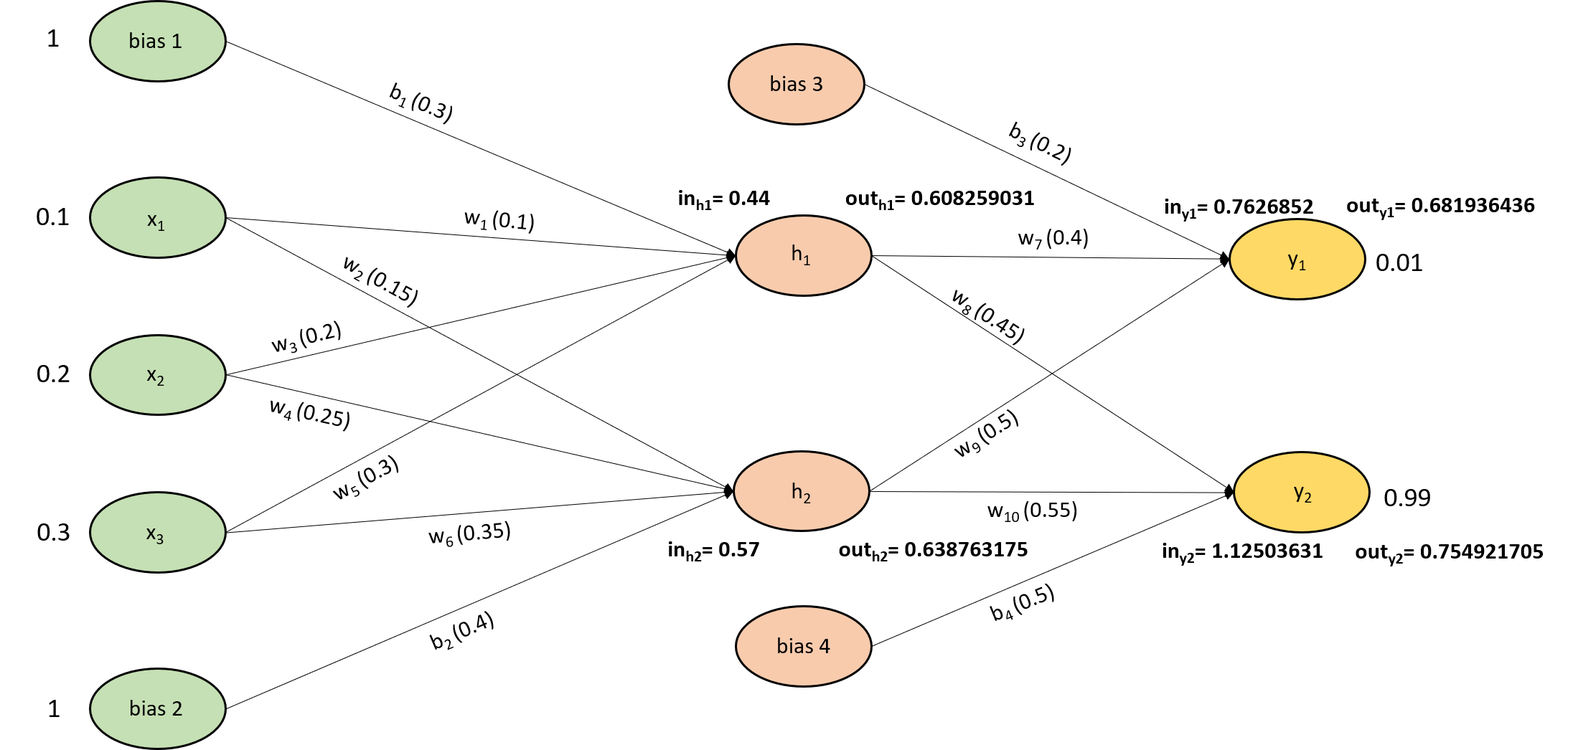
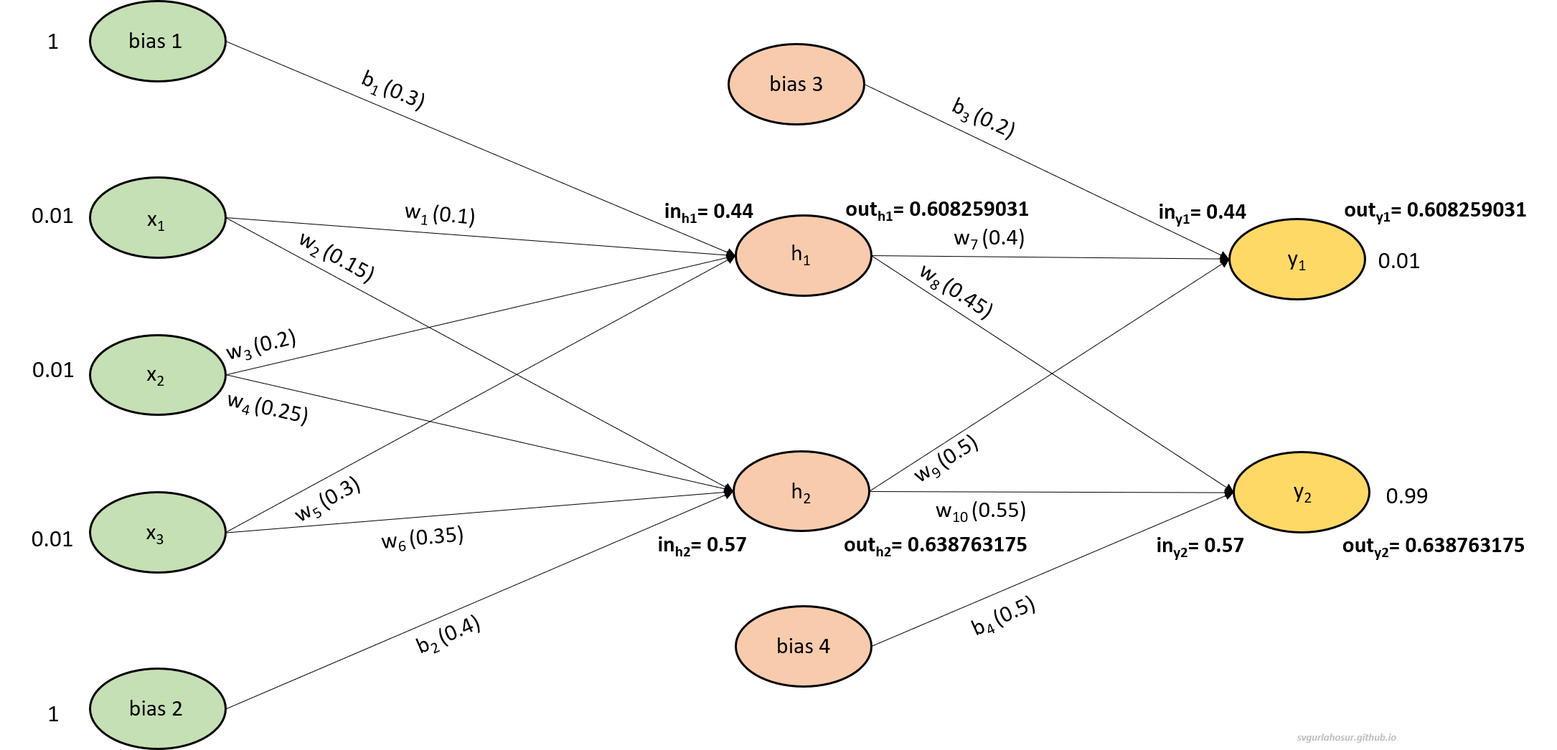
updates

diff --git a/_posts/2022-03-18-neural_network-forward_back_propogation.md b/_posts/2022-03-18-neural_network-forward_back_propogation.md
@@ -17,13 +17,15 @@ This post discusses Neural Networks, particularly Multilayer Perceptron (MLP), a
 <!--more-->
 
 # Introduction
-The Multi-layer Perceptron is a powerful and popular neural network architecture that has significantly impacted machine learning, pattern recognition, and deep learning. MLPs are known for learning intricate patterns and making precise predictions. This post focuses on the detailed analysis of forward and backpropagation in MLPs, examining their fundamental concepts, mechanisms, advantages, difficulties, and influence on artificial intelligence. Every MLP will have one input layer, one or more hidden layers, and one output layer.
+The Multi-layer Perceptron is a powerful and popular neural network architecture that has significantly impacted machine learning, pattern recognition, and deep learning. MLPs are known for learning intricate patterns and making precise predictions. This post focuses on the detailed analysis of forward and backpropagation in MLPs, examining their fundamental concepts, mechanisms, advantages, difficulties, and influence on artificial intelligence.
 
-The MLP shown in <a href="#image-name">Figure 1</a> has one input layer, one hidden layer, and one output layer. The input layer has three input neurons represented by the three nodes ($x_1, x_2, x_3$) in the input layer and two bias neurons represented by the two bias nodes ($b_1, b_2$). The hidden layer consists of two neurons, also known as hidden units($h_1, h_2$) and two bias units ($b_3, b_4$). The number of neurons in the output layer is determined by the problem being solved. For example, in a binary classification task, two output neurons might represent the two possible classes.
+The structure/design of every MLP will have one input layer, one or more hidden layers, and one output layer. The MLP shown in <a href="#image-name">Figure 1</a> has one input layer, one hidden layer, and one output layer. The input layer has three input neurons represented by the three nodes ($x_1, x_2, x_3$) in the input layer and two bias neurons represented by the two bias nodes ($b_1, b_2$). The hidden layer consists of two neurons, also known as hidden units ($h_1, h_2$) and two bias units ($b_3, b_4$). The output layer has a total of two neurons ($y_1, y_2$). The number of neurons in the input layer is determined by the number of features/inputs. If the input is an image, then the total number of pixels. The number of layers and number of neurons in each hidden layer is determined by the problem being solved and the AI designer. The number of neurons in the output layer depends on the problem being solved. For example, two output neurons might represent the two possible classes in a binary classification task.
 
 The training of MLP mainly involves two steps: forward propagation and backpropagation. Forward propagation refers to calculating the output of an MLP for a given set of input data. Backpropagation is used to update the weights and biases of the neural network to minimize the error or loss function based on the gradients so that the predicted output will be same or as close as possible to the actual output. 
 
-<img src="/images/posts/neural-network/1.png" alt="Alt Text" id="image-name" style="width:970px;">
+<div style="text-align: center;">
+    <img src="/images/posts/neural-network/1.png" alt="drawing" style="width:970px;"/>
+</div>
 
 $$
 Figure\text{ 1: Multi Layer Perceptron}
@@ -41,14 +43,14 @@ $$
 
 The Forward propagation, also known as feedforward, is the initial phase of training an MLP. It involves passing input data through the network’s layers, where each neuron calculates a weighted sum of its inputs and applies an activation function to produce an output. The process continues layer by layer until the final layer generates the network’s prediction. This process can divided into the following steps:
 
-1. Initialization of inputs and network parameters: The input layer is initialized with the input data, and all the neurons and biases of MLP will be initialized with some initial values.
-2. Weighted Sum Calculation: Each neuron in the current layer computes the weighted sum of its inputs, including the inputs, corresponding weights, and biases.
-3. Activation Function: The weighted sum is then passed through an activation function, introducing non-linearity into the network. The specific type of activation function used can vary, but common choices include the sigmoid, tanh, or relu functions. In this discussion, we have considered the sigmoid as the activation function.
-4. Intermediate Output calculation: The outputs from the current layer are sent as inputs to the next layer.
-5. Iteration: Steps 2-4 are repeated for all the hidden layers until the output layer is reached.
-6. Network output calculation: The final layer’s output values act as the network’s prediction and are used to improve the network performance further by calculating the error by comparing them against the actual outputs for the network.
+1. **Initialization of inputs and network parameters**: The input layer is initialized with the input data, and all the neurons and biases of MLP will be initialized with some initial values.
+2. **Weighted Sum Calculation**: Each neuron in the current layer computes the weighted sum of its inputs, including the inputs, corresponding weights, and biases.
+3. **Activation Function**: The weighted sum is then passed through an activation function, introducing non-linearity into the network. The specific type of activation function used can vary, but common choices include the sigmoid, tanh, or relu functions. In this discussion, we have considered the sigmoid as the activation function.
+4. **Intermediate Output calculation**: The outputs from the current layer are sent as inputs to the next layer.
+5. **Iteration**: Steps 2-4 are repeated for all the hidden layers until the output layer is reached.
+6. **Network output calculation**: The final layer’s output values act as the network’s prediction and are used to improve the network performance further by calculating the error by comparing them against the actual outputs for the network.
 
-Overall, the MLP with this configuration performs forward propagation by passing the input data through the hidden layer to the output layer, with each neuron applying weights and activation functions and producing outputs. In the considered example, with the current inputs ($x_1, x_2, x_3$), the network has to predict the outputs using all weights ($w_1, w_2, w_3, w_4, w_5, w_6, w_7, w_8, w_9 ,w_{10}$) and biases ($b_1, b_2, b_3, b_4$) so that the predicted output from node $y_1$ to be 0.01 and node $y_2$ to be 0.99.
+Overall, the MLP in <a href="#image-name">Figure 1</a> with the mentioned initial values for weights and bias performs forward propagation by passing the input data through the hidden layer to the output layer, with each neuron applying weights and activation functions and producing outputs. In the considered example, with the current inputs ($x_1, x_2, x_3$), the network has to predict the outputs using all weights ($w_1, w_2, w_3, w_4, w_5, w_6, w_7, w_8, w_9 ,w_{10}$) and biases ($b_1, b_2, b_3, b_4$) so that the predicted output from node $y_1$ to be 0.01 and node $y_2$ to be 0.99.
 
 
 ### **i. Input and output at hidden layer:**
@@ -93,7 +95,11 @@ $$
 out_{h2}=\frac{1}{1+e^{-in_{h2}}}=\frac{1}{1+e^{-0.57}}=0.638763175
 $$
 
-<img src="/images/posts/neural-network/2.png" alt="Alt Text" style="width:970px;">
+
+<div style="text-align: center;">
+    <img src="/images/posts/neural-network/2.png" alt="drawing" style="width:970px;"/>
+</div>
+
 
 $$
 Figure\text{ 2: MLP with input and output at the hidden layer}
@@ -142,7 +148,9 @@ out_{y2}=\frac{1}{1+e^{-in_{h2}}}=\frac{1}{1+e^{-1.12503631}}=0.754921705
 $$
 
 
-<img src="/images/posts/neural-network/3.png" alt="Alt Text" style="width:970px;">
+<div style="text-align: center;">
+    <img src="/images/posts/neural-network/3.png" alt="drawing" style="width:970px;"/>
+</div>
 
 $$
 Figure\text{ 3: MLP with input and output for both the layers}
@@ -178,15 +186,15 @@ $$
 
 The Backpropagation step in MLPs allows the network to learn from errors by adjusting weights and biases. This step propagates the error backward by updating weights and biases at each layer to minimize the difference between predicted and actual outputs. This process allows the network to make predictions or classify input data based on the learned patterns and connections between neurons. The chain rule of calculus is used in backpropagation efficiently to compute the gradient of the loss function at each layer, enabling accurate error calculation by all the weights and biases. This process can divided into the following steps
 
-1. Network error calculation: The output predicted from the network is compared with the actual output to calculate the total network error.
-2. Computation of gradients and weights and biases updation: The gradient of the error with respect to the weights and biases of the output layer is calculated, representing the direction and magnitude of the weight and bias modification needed to reduce the error. An optimization algorithm, such as gradient descent, will be used to update the weights and biases to reduce the error.
-3. Updation of parameters: The output layer weights and biases are updated using an optimization algorithm, such as gradient descent, which utilizes the calculated gradients to minimize the error iteratively.
-4. Propagation of error: The error information will be propagated backward to the previous layer by computing the error gradient with respect to the weights and biases of the previous layer. The weights and biases of the previous layer are modified using the calculated gradients with the gradient descent optimization algorithm.
-5. Iteration: Steps 4 is repeated for all hidden layers until the input layer is reached.
+1. **Network error calculation**: The output predicted from the network is compared with the actual output to calculate the total network error.
+2. **Computation of gradients and weights and biases updation**: The gradient of the error with respect to the weights and biases of the output layer is calculated, representing the direction and magnitude of the weight and bias modification needed to reduce the error. An optimization algorithm, such as gradient descent, will be used to update the weights and biases to reduce the error.
+3. **Updation of parameters**: The output layer weights and biases are updated using an optimization algorithm, such as gradient descent, which utilizes the calculated gradients to minimize the error iteratively.
+4. **Propagation of error**: The error information will be propagated backward to the previous layer by computing the error gradient with respect to the weights and biases of the previous layer. The weights and biases of the previous layer are modified using the calculated gradients with the gradient descent optimization algorithm.
+5. **Iteration**: Steps 4 is repeated for all hidden layers until the input layer is reached.
 
 To summarize, the forward propagation is used to calculate the error, and the backpropagation is used to update network parameters so that the error during the subsequent forward propagation will be less than the current error. During the training of MLP, both forward and back propagation will be done in a continuous loop for a specified number of times (epoch) to optimize the model parameters so that the error at the end will be significantly less compared to the first epoch error.
 
-The total error from the MLP with current weights and bias is 0.253380189, so let us calculate the optimized value for weights and bias using backpropagation with a learning rate of 0.5, so that error from MLP will be lesser than the current total error. In order to do that, we shall start with the weights($w_7, w_8, w_9, w_{10}$) and biases($b_3, b_4$) associated between the hidden layer and the output layer.
+The total error from the MLP with current weights and bias is 0.253380189, so let us calculate the optimized value for weights and bias using backpropagation with a learning rate of 0.5, so that error from MLP will be lesser than the current total error. In order to do that, we shall start with the weights ($w_7, w_8, w_9, w_{10}$) and biases ($b_3, b_4$) associated between the hidden layer and the output layer.
 
 ### **i. Weights between output and hidden layer:**
 
@@ -478,7 +486,9 @@ $$
 
 We have calculated all the weights ($w_7, w_8, w_9, w_{10}$) associated between the hidden layer and output layer.
 
-<img src="/images/posts/neural-network/4.png" alt="Alt Text" style="width:970px;">
+<div style="text-align: center;">
+    <img src="/images/posts/neural-network/4.png" alt="drawing" style="width:970px;"/>
+</div>
 
 $$
 Figure\text{ 4: MLP with updated weights between output and hidden layer}
@@ -582,7 +592,9 @@ $$
 
 All the weights and bias values associated between the hidden layer and the output layer are calculated. 
 
-<img src="/images/posts/neural-network/5.png" alt="Alt Text" style="width:970px;">
+<div style="text-align: center;">
+    <img src="/images/posts/neural-network/5.png" alt="drawing" style="width:970px;"/>
+</div>
 
 $$
 Figure\text{ 5: MLP with updated weights and biases between output and hidden layer}
@@ -665,8 +677,13 @@ let us substitute values from the equations \eqref{eq:31} and \eqref{eq:32} in t
 
 now let us use the values from the equations \eqref{eq:29} and \eqref{eq:33} and substitute into equation \eqref{eq:25} which is the first component of the equation \eqref{eq:24} 
 
+$$
+\frac{\partial E_{\text {total}}}{\partial out_{h1}} = \frac{\partial error_{\text {y1}}}{\partial out_{h1}} +\frac{\partial error_{\text {y2}}}{\partial out_{h1}} = 0.058296972 + (-0.019571847)
+$$
+
+
 \begin{equation}
-  \frac{\partial E_{\text {total}}}{\partial out_{h1}} = \frac{\partial error_{\text {y1}}}{\partial out_{h1}} +\frac{\partial error_{\text {y2}}}{\partial out_{h1}} = 0.058296972 + (-0.019571847) = 0.038725125
+  \frac{\partial E_{\text {total}}}{\partial out_{h1}} = 0.038725125
   \label{eq:34}
 \end{equation}
 
@@ -697,7 +714,7 @@ $$in_{h1}=w_1 * x_1+w_3 * x_2+w_5 * x_3+b_1 * 1$$
   \label{eq:36}
 \end{equation}
 
-let us put everything together now from equations \eqref{eq:34}  \eqref{eq:35} and \eqref{eq:36} into the equation \eqref{eq:24}
+let us put everything together now from equations \eqref{eq:34}, \eqref{eq:35}, and \eqref{eq:36} into the equation \eqref{eq:24}
 
 $$
 \frac{\partial E_{\text {total}}}{\partial w_1}=\frac{\partial E_{\text {total}}}{\partial out_{h1}} * \frac{\partial out_{h1}}{\partial in_{h1}} * \frac{\partial in_{h1}}{\partial w_1} = 0.038725125 * 0.238279982 * 0.1 = 0.009227422
@@ -877,8 +894,13 @@ $$
 
 let us use the values from equations \eqref{eq:48} and \eqref{eq:51} and substitute them into equation  \eqref{eq:45} which is the first component of the equation \eqref{eq:44}
 
+$$
+\frac{\partial E_{\text {total}}}{\partial out_{h2}} = \frac{\partial error_{\text {y1}}}{\partial out_{h2}} +\frac{\partial error_{\text {y2}}}{\partial out_{h2}} = 0.072871216 + (-0.023921146)
+$$
+
+
 \begin{equation}
-  \frac{\partial E_{\text {total}}}{\partial out_{h2}} = \frac{\partial error_{\text {y1}}}{\partial out_{h2}} +\frac{\partial error_{\text {y2}}}{\partial out_{h2}} = 0.072871216 + (-0.023921146) = 0.048950069
+  \frac{\partial E_{\text {total}}}{\partial out_{h2}} = 0.048950069
   \label{eq:52}
 \end{equation}
 
@@ -1013,10 +1035,12 @@ $$
 
 We have calculated all the weights ($w_1, w_2, w_3, w_4, w_5, w_6$) associated between the hidden layer and output layer.
 
-<img src="/images/posts/neural-network/6.png" alt="Alt Text" style="width:970px;">
+<div style="text-align: center;">
+    <img src="/images/posts/neural-network/6.png" alt="drawing" style="width:970px;"/>
+</div>
 
 $$
-Figure\text{ 6: MLP with updated weights and biases between output and hidden layer, weights between input and hidden layer}
+Figure\text{ 6: MLP with updated weights between input and hidden layer}
 $$
 
 ### **iv. Biases between hidden and input layer:**
@@ -1105,7 +1129,9 @@ $$
 
 We have calculated all the biases ($b_1, b_2$) associated between the hidden layer and input layer.
 
-<img src="/images/posts/neural-network/7.png" alt="Alt Text" style="width:970px;">
+<div style="text-align: center;">
+    <img src="/images/posts/neural-network/7.png" alt="drawing" style="width:970px;"/>
+</div>
 
 $$
 Figure\text{ 7: MLP with updated weights and biases between both the layers}
@@ -1198,10 +1224,12 @@ $$
 out_{y2}=\frac{1}{1+e^{-in_{h2}}}=\frac{1}{1+e^{-1.162282206}}=0.761747156
 $$
 
-<img src="/images/posts/neural-network/8.png" alt="Alt Text" style="width:970px;">
+<div style="text-align: center;">
+    <img src="/images/posts/neural-network/8.png" alt="drawing" style="width:970px;"/>
+</div>
 
 $$
-Figure\text{ 8: MLP with input and output for both the layers with updated weights and biases}
+Figure\text{ 8: MLP with input, output for both the layers with updated weights and biases}
 $$
 
 ### **i. Calculation of total error:**
@@ -1241,7 +1269,11 @@ The total error from the MLP before the updation of weights and bias was $0.2533
     Epoch: 500 Error: 0.000708482
 
 
-<img src="/images/posts/neural-network/error_w_b.png" alt="drawing" style="width:500px;"/>
+
+<div style="text-align: center;">
+    <img src="/images/posts/neural-network/error_w_b.png" alt="drawing" style="width:500px;"/>
+</div>
+
 
 ## 4. Forward propagation with only updated weights:
 
@@ -1328,7 +1360,9 @@ $$
 out_{y2}=\frac{1}{1+e^{-in_{h2}}}=\frac{1}{1+e^{-1.141780842}}=0.758006454
 $$
 
-<img src="/images/posts/neural-network/9.png" alt="Alt Text" style="width:970px;">
+<div style="text-align: center;">
+    <img src="/images/posts/neural-network/9.png" alt="drawing" style="width:970px;"/>
+</div>
 
 $$
 Figure\text{ 9: MLP with input and output for both the layers with updated weights}
@@ -1370,7 +1404,11 @@ The total error from the MLP before the updation of weights was $0.253380189$, a
     Epoch: 450 Error: 0.002269746
     Epoch: 500 Error: 0.001972481
 
-<img src="/images/posts/neural-network/error_w.png" alt="drawing" style="width:500px;"/>
+
+
+<div style="text-align: center;">
+    <img src="/images/posts/neural-network/error_w.png" alt="drawing" style="width:500px;"/>
+</div>
 
 
 ## 5. Analysis on the error obtained during training:
@@ -1379,7 +1417,10 @@ Now, let us analyze the error obtained for both methods and visualize how error 
 <script src="https://gist.github.com/svgurlahosur/8a57782dbaf4c94d1657c3281ef0d138.js"></script>
 
 
-<img src="/images/posts/neural-network/error_analysis.png" alt="drawing" style="width:700px;"/>
+<div style="text-align: center;">
+    <img src="/images/posts/neural-network/error_analysis.png" alt="drawing" style="width:700px;"/>
+</div>
+
 
     The total error from all epochs with weights and bias updation method is less.
 

diff --git a/_posts/2022-02-18-linear-regression.md b/_posts/2022-02-18-linear-regression.md
@@ -22,7 +22,7 @@ Linear Regression is a Supervised Learning algorithm used to solve problems wher
 - Years of experience --> Salary of an employee
 - Area of the house --> Price of the house
 
-In all these examples, output/predicted values are continuous; hence, Linear Regression is used to build the machine learning model(hypothesis) and predict the output for a new set of inputs. To understand the working of the Linear Regression algorithm from a practical perspective, let us consider the problem of predicting an employee's salary based on various employee qualities. Now, to solve this problem to predict the employee salary with Linear Regression, we should apply the following four steps:
+In all these examples, output/predicted values are continuous; hence, Linear Regression is used to build the machine learning model (hypothesis) and predict the output for a new set of inputs. To understand the working of the Linear Regression algorithm from a practical perspective, let us consider the problem of predicting an employee's salary based on various employee qualities. Now, to solve this problem to predict the employee salary with Linear Regression, we should apply the following four steps:
 
 1. Data collection
 2. Model/hypothesis representation
@@ -34,16 +34,22 @@ In all these examples, output/predicted values are continuous; hence, Linear Reg
 
 Let us consider/collect sample data records of salary provided by the company to employees based upon one feature of employees, like years of experience. We call this Univariate Linear Regression since we use a single feature to predict the employee's salary.
 
-<img src="/images/posts/linear-regression/picture1.png" alt="drawing" style="width:310px;"/>
+<div style="text-align: center;">
+    <img src="/images/posts/linear-regression/picture1.png" alt="drawing" style="width:310px;"/>
+</div>
 
-Instead of a single feature, if we use multiple features(qualities) of an employee to predict the salary, we call it Multi-variate Linear Regression.
 
-<img src="/images/posts/linear-regression/picture2.png" alt="drawing" style="width:580px;"/>
+Instead of a single feature, if we use multiple features (qualities) of an employee to predict the salary, we call it Multi-variate Linear Regression.
+
+<div style="text-align: center;">
+    <img src="/images/posts/linear-regression/picture2.png" alt="drawing" style="width:580px;"/>
+</div>
+
 
 ***Note:*** 
-1. Number of samples(records) range from 1, 2, 3, 4, . . . ., m
-2. Number of features range from $x_0, x_1, x_2, x_3, . . . . x_n$ where $x_0$ is considered as 1
-3. Notation used to identify the dataset(superscript indicates the sample number and subscript indicates the feature number): $x^2$ - (3, 1, 5), $x^2_1$ - 3, $x^2_2$ - 1 and $x^4$ - (4, 1, 6)
+1. Number of samples(records) range from 1, 2, 3, 4, . . . ., m.
+2. Number of features range from $x_0, x_1, x_2, x_3, . . . . x_n$ where $x_0$ is considered as 1.
+3. Notation used to identify the dataset(superscript indicates the sample number and subscript indicates the feature number): $x^2$ - (3, 1, 5), $x^2_1$ - 3, $x^2_2$ - 1 and $x^4$ - (4, 1, 6).
 
 <script src="https://gist.github.com/svgurlahosur/c01e14f00a67ae85d668f64f0a10f8d7.js"></script>
 
@@ -52,7 +58,7 @@ Visit the [training](https://github.com/svgurlahosur/Machine-Learning/blob/main/
 
 ## 2. Model/hypothesis represenation
 
-The model/hypothesis ($h_\theta(x)$) approximates the target function by finding the relationship(pattern) between input features and output using linear operators (since data is linear). Hence we can define the hypothesis for Linear Regression algorithm as,
+The model/hypothesis ($h_\theta(x)$) approximates the target function by finding the relationship (pattern) between input features and output using linear operators (since data is linear). Hence we can define the hypothesis for Linear Regression algorithm as,
 
 
 $$
@@ -80,11 +86,11 @@ An optimization algorithm is used to iteratively update the model parameters unt
 
 ## 4. Optimization of model parameters
 
-The cost function calculates the error for any given values of model parameters($$\theta_0,\theta_1,\theta_2\ .\ .\theta_n$$), and the job of the optimization algorithm is to iteratively adjust the parameters based on the gradient (slope) of the cost function with respect to each parameter such that the error is minimized.
+The cost function calculates the error for any given values of model parameters ($$\theta_0,\theta_1,\theta_2\ .\ .\theta_n$$), and the job of the optimization algorithm is to iteratively adjust the parameters based on the gradient (slope) of the cost function with respect to each parameter such that the error is minimized.
 
 Hence, we initialize the model parameters with some initial values (hyperparameter initialization) that serve as the optimization process's starting point and update them to minimize the error. With the initialized values for parameters, we will get an error value. Still, the challenge here is to decide with obtained error whether we should increase the value of parameters or decrease them so that the error will be reduced with the modified parameters. If we decide on the choice (increase/decrease), the next challenge is the magnitude with which we should update them. Hence we can roughly imagine this problem where the model parameters are like vector elements with scope for optimization in both magnitude and direction.
 
-So, to minimize the error, with initial values for parameters, we calculate the gradient of the cost function with respect to each coefficient. The gradient descent is a first-order iterative optimization algorithm for finding a local minimum of a differentiable function. It calculates the partial derivative of the cost function($$J\left(\theta\right)$$) with respect to each model parameter which represents the slope of the cost function in the direction of each parameter, indicating how the cost function changes with respect to changes in the parameters. 
+So, to minimize the error, with initial values for parameters, we calculate the gradient of the cost function with respect to each coefficient. The gradient descent is a first-order iterative optimization algorithm for finding a local minimum of a differentiable function. It calculates the partial derivative of the cost function ($$J\left(\theta\right)$$) with respect to each model parameter which represents the slope of the cost function in the direction of each parameter, indicating how the cost function changes with respect to changes in the parameters. 
 After calculating gradients for each parameter, we update the parameter in the opposite direction by a small fraction (learning rate) since the gradient gives the direction of the steepest ascent. The learning rate is a hyperparameter that controls the step size taken in each iteration of the optimization process. It determines how large or small the coefficient updates should be to ensure the algorithm converges effectively without overshooting the minimum.
 
 Hence, the generic parameter update formula is as follows,
@@ -167,17 +173,29 @@ The Hyperparameter Epochs define the number of times we perform the optimization
 ### **i. Stochastic gradient descent:**
 A single sample is used at every iteration to predict model output, calculate the error, and optimize the model parameters. This method is straightforward but computationally expensive to train models on large datasets with all samples. It can quickly give an insight into the model performance and converge faster, making it ideal for large datasets. The frequent updates can help escape local minima, but the noisy updates sometimes may lead to erratic convergence. 
 
-<img src="/images/posts/linear-regression/picture4.png" alt="drawing" style="width:770px;"/>
+
+<div style="text-align: center;">
+    <img src="/images/posts/linear-regression/picture4.png" alt="drawing" style="width:770px;"/>
+</div>
+
 
 ### **ii. Batch gradient descent:**
 All the samples are used at every iteration to predict model output and calculate the error, resulting in a more accurate and stable estimation of gradients to optimize the model parameters. This method is ideal for convex or well-behaved loss surfaces, guaranteeing convergence to the global minimum. At the same time, this method is computationally expensive since the entire training dataset is loaded onto memory, particularly for larger datasets. This method will also struggle with non-convex loss surfaces and sometimes may lead to early convergence (local minima) with a less optimized set of parameters. 
 
-<img src="/images/posts/linear-regression/picture5.png" alt="drawing" style="width:770px;"/>
+
+<div style="text-align: center;">
+    <img src="/images/posts/linear-regression/picture5.png" alt="drawing" style="width:770px;"/>
+</div>
 
 ### **iii. Mini batch gradient:**
 A batch of samples is used at every iteration to predict model output, calculate the error, and optimize the model parameters. This method combines the advantages of stochastic gradient descent and batch gradient descent by processing a random subset (mini-batch) of the samples at each iteration, making the model both stable and efficient. This method offers parallelism opportunities and can take advantage of hardware acceleration, and it is the most commonly used optimization of Deep Learning algorithms due to its scalability and versatility. Careful tuning of the batch size and learning rate can be used to balance computational efficiency and parameter update stability. Otherwise, it can lead to suboptimal convergence or inefficient models.
 
-<img src="/images/posts/linear-regression/picture6.png" alt="drawing" style="width:770px;"/>
+
+<div style="text-align: center;">
+    <img src="/images/posts/linear-regression/picture6.png" alt="drawing" style="width:770px;"/>
+</div>
+
+
 
 **Note:** All the code snippets are based on the Stochastic gradient descent algorithm and refer the [Batch gradient descent](https://github.com/svgurlahosur/Machine-Learning/blob/main/Linear-Regression/Batch_Gradient_Descent.py) and [Mini batch gradient](https://github.com/svgurlahosur/Machine-Learning/blob/main/Linear-Regression/Mini_Batch_Gradient_Descent.py) for respective implementaion.
 
@@ -224,7 +242,11 @@ Graph plots to visualize how the training and testing errors are decresing as th
 <script src="https://gist.github.com/svgurlahosur/6b4ad067ec4f121e1d235454f60599ed.js"></script>
 
 
-<img src="/images/posts/linear-regression/picture3.png" alt="drawing" style="width:720px;"/>
+<div style="text-align: center;">
+    <img src="/images/posts/linear-regression/picture3.png" alt="drawing" style="width:720px;"/>
+</div>
+
+
 
 ## 5. Linear Regresion with Scikit library 
 Now, let us use the scikit-learn machine learning library to implement the Linear Regression algorithm and analyze the results.

diff --git a/_pages/about.md b/_pages/about.md
@@ -12,5 +12,5 @@ Research scholar working in AI and Data Analytics Lab, KLE Technological Univers
 
 As an Assistant Professor in the School of Computer Science and Engineering, I teach courses like Machine Learning, Exploratory Data Analysis, Python & Shell Scripting, and Principles of Compiler Design. I have undergone a training program at Samsung Research Institute, Bangalore, to handle a course on Embedded Intelligence and mentor the student's worklet under the Samsung PRISM program.
 
-I have experience carrying out projects to build custom datasets for real-world problems, design transfer-learning and from-scratch CNN models for computer vision tasks, optimize them as binarized neural networks for edge devices, etc. I have published my work as research papers in various Web of Science and Scopus-indexed book chapters, journals, and conference papers. I have pursued my master's degree from the National Institute of Technology Karnataka, Surathkal, and my bachelor's degree from Siddaganga Institute of Technology, Tumkur.
+I have experience carrying out projects to build custom datasets for real-world problems, design transfer-learning and from-scratch CNN models for computer vision tasks, optimize them as binarized neural networks for edge devices, etc. I have published my work as research papers in various Web of Science and Scopus-indexed book chapters, journals, and conference papers. I have pursued my Master's degree from the National Institute of Technology Karnataka, Surathkal, and my Bachelor's degree from Siddaganga Institute of Technology, Tumkur.
 

diff --git a/_pages/aboutme.md b/_pages/aboutme.md
@@ -10,4 +10,4 @@ Research scholar working in AI and Data Analytics Lab, KLE Technological Univers
 
 As an Assistant Professor in the School of Computer Science and Engineering, I teach courses like Machine Learning, Exploratory Data Analysis, Python & Shell Scripting, and Principles of Compiler Design. I have undergone a training program at Samsung Research Institute, Bangalore, to handle a course on Embedded Intelligence and mentor the student's worklet under the Samsung PRISM program.
 
-I have experience carrying out projects to build custom datasets for real-world problems, design transfer-learning and from-scratch CNN models for computer vision tasks, optimize them as binarized neural networks for edge devices, etc. I have published my work as research papers in various Web of Science and Scopus-indexed book chapters, journals, and conference papers. I have pursued my master's degree from the National Institute of Technology Karnataka, Surathkal, and my bachelor's degree from Siddaganga Institute of Technology, Tumkur.
+I have experience carrying out projects to build custom datasets for real-world problems, design transfer-learning and from-scratch CNN models for computer vision tasks, optimize them as binarized neural networks for edge devices, etc. I have published my work as research papers in various Web of Science and Scopus-indexed book chapters, journals, and conference papers. I have pursued my Master's degree from the National Institute of Technology Karnataka, Surathkal, and my Bachelor's degree from Siddaganga Institute of Technology, Tumkur.
